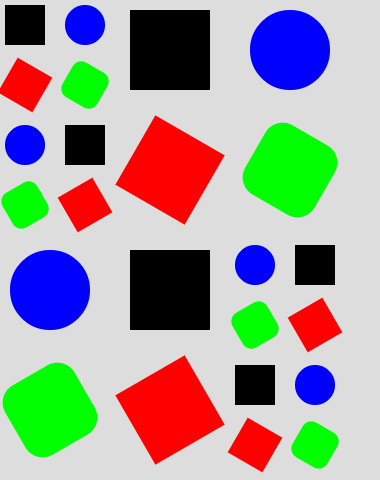
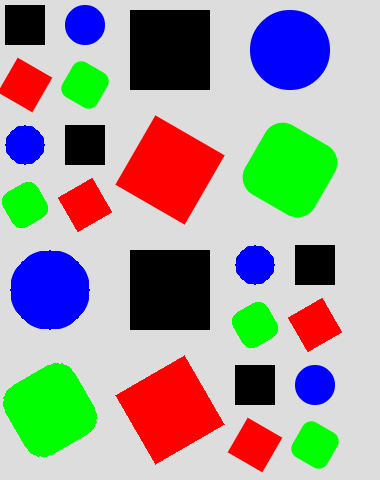
Revert r3321 because of GM failure

diff --git a/src/gpu/GrAAConvexPathRenderer.cpp b/src/gpu/GrAAConvexPathRenderer.cpp
@@ -202,11 +202,10 @@ void update_degenerate_test(DegenerateTestData* data, const GrPoint& pt) {
 }
 
 bool get_segments(const GrPath& path,
-                  const GrMatrix& m,
-                  SegmentArray* segments,
-                  SkPoint* fanPt,
-                  int* vCount,
-                  int* iCount) {
+                 SegmentArray* segments,
+                 SkPoint* fanPt,
+                 int* vCount,
+                 int* iCount) {
     SkPath::Iter iter(path, true);
     // This renderer overemphasises very thin path regions. We use the distance
     // to the path from the sample to compute coverage. Every pixel intersected
@@ -226,7 +225,6 @@ bool get_segments(const GrPath& path,
                 break;
             case kLine_PathCmd: {
                 update_degenerate_test(&degenerateData, pts[1]);
-                m.mapPoints(pts + 1, 1);
                 segments->push_back();
                 segments->back().fType = Segment::kLine;
                 segments->back().fPts[0] = pts[1];
@@ -235,7 +233,6 @@ bool get_segments(const GrPath& path,
             case kQuadratic_PathCmd:
                 update_degenerate_test(&degenerateData, pts[1]);
                 update_degenerate_test(&degenerateData, pts[2]);
-                m.mapPoints(pts + 1, 2);
                 segments->push_back();
                 segments->back().fType = Segment::kQuad;
                 segments->back().fPts[0] = pts[1];
@@ -245,9 +242,6 @@ bool get_segments(const GrPath& path,
                 update_degenerate_test(&degenerateData, pts[1]);
                 update_degenerate_test(&degenerateData, pts[2]);
                 update_degenerate_test(&degenerateData, pts[3]);
-                // unlike quads and lines, the pts[0] will also be read (in
-                // convertCubicToQuads).
-                m.mapPoints(pts, 4);
                 SkSTArray<15, SkPoint, true> quads;
                 GrPathUtils::convertCubicToQuads(pts, SK_Scalar1, &quads);
                 int count = quads.count();
@@ -437,8 +431,8 @@ bool GrAAConvexPathRenderer::onDrawPath(const SkPath& origPath,
                                         GrDrawState::StageMask stageMask,
                                         bool antiAlias) {
 
-    const SkPath* path = &origPath;
-    if (path->isEmpty()) {
+
+    if (origPath.isEmpty()) {
         return true;
     }
     GrDrawState* drawState = target->drawState();
@@ -455,6 +449,9 @@ bool GrAAConvexPathRenderer::onDrawPath(const SkPath& origPath,
     }
     drawState->setViewMatrix(GrMatrix::I());
 
+    SkPath path;
+    origPath.transform(vm, &path);
+
     GrVertexLayout layout = 0;
     for (int s = 0; s < GrDrawState::kNumStages; ++s) {
         if ((1 << s) & stageMask) {
@@ -462,16 +459,6 @@ bool GrAAConvexPathRenderer::onDrawPath(const SkPath& origPath,
         }
     }
     layout |= GrDrawTarget::kEdge_VertexLayoutBit;
-
-    // We use the fact that SkPath::transform path does subdivision based on
-    // perspective. Otherwise, we apply the view matrix when copying to the
-    // segment representation.
-    SkPath tmpPath;
-    if (vm.hasPerspective()) {
-        origPath.transform(vm, &tmpPath);
-        path = &tmpPath;
-        vm.reset();
-    }
 
     QuadVertex *verts;
     uint16_t* idxs;
@@ -483,8 +470,7 @@ bool GrAAConvexPathRenderer::onDrawPath(const SkPath& origPath,
     };
     SkSTArray<kPreallocSegmentCnt, Segment, true> segments;
     SkPoint fanPt;
-
-    if (!get_segments(*path, vm, &segments, &fanPt, &vCount, &iCount)) {
+    if (!get_segments(path, &segments, &fanPt, &vCount, &iCount)) {
         return false;
     }
 
